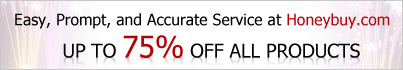
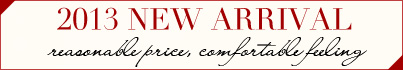
底部图片更新

diff --git a/war/style/css/helpCenter.css b/war/style/css/helpCenter.css
@@ -310,7 +310,7 @@ opacity: 0.5;}
 #Promotion_two .left{float:left}
 #Promotion_two .right{float:right;}
 #Promotion_two .clear{ clear:both}
-#Promotion_two{ background:url(/style/image/pic/Background.jpg) repeat-x; width:100%}
+#Promotion_two{ width:100%}
 #Promotion_two .Overall{ width:972px; margin:0 auto;}
 #Promotion_two .banner{ height:500px;}
 #Promotion_two .positio{width:972px;}
